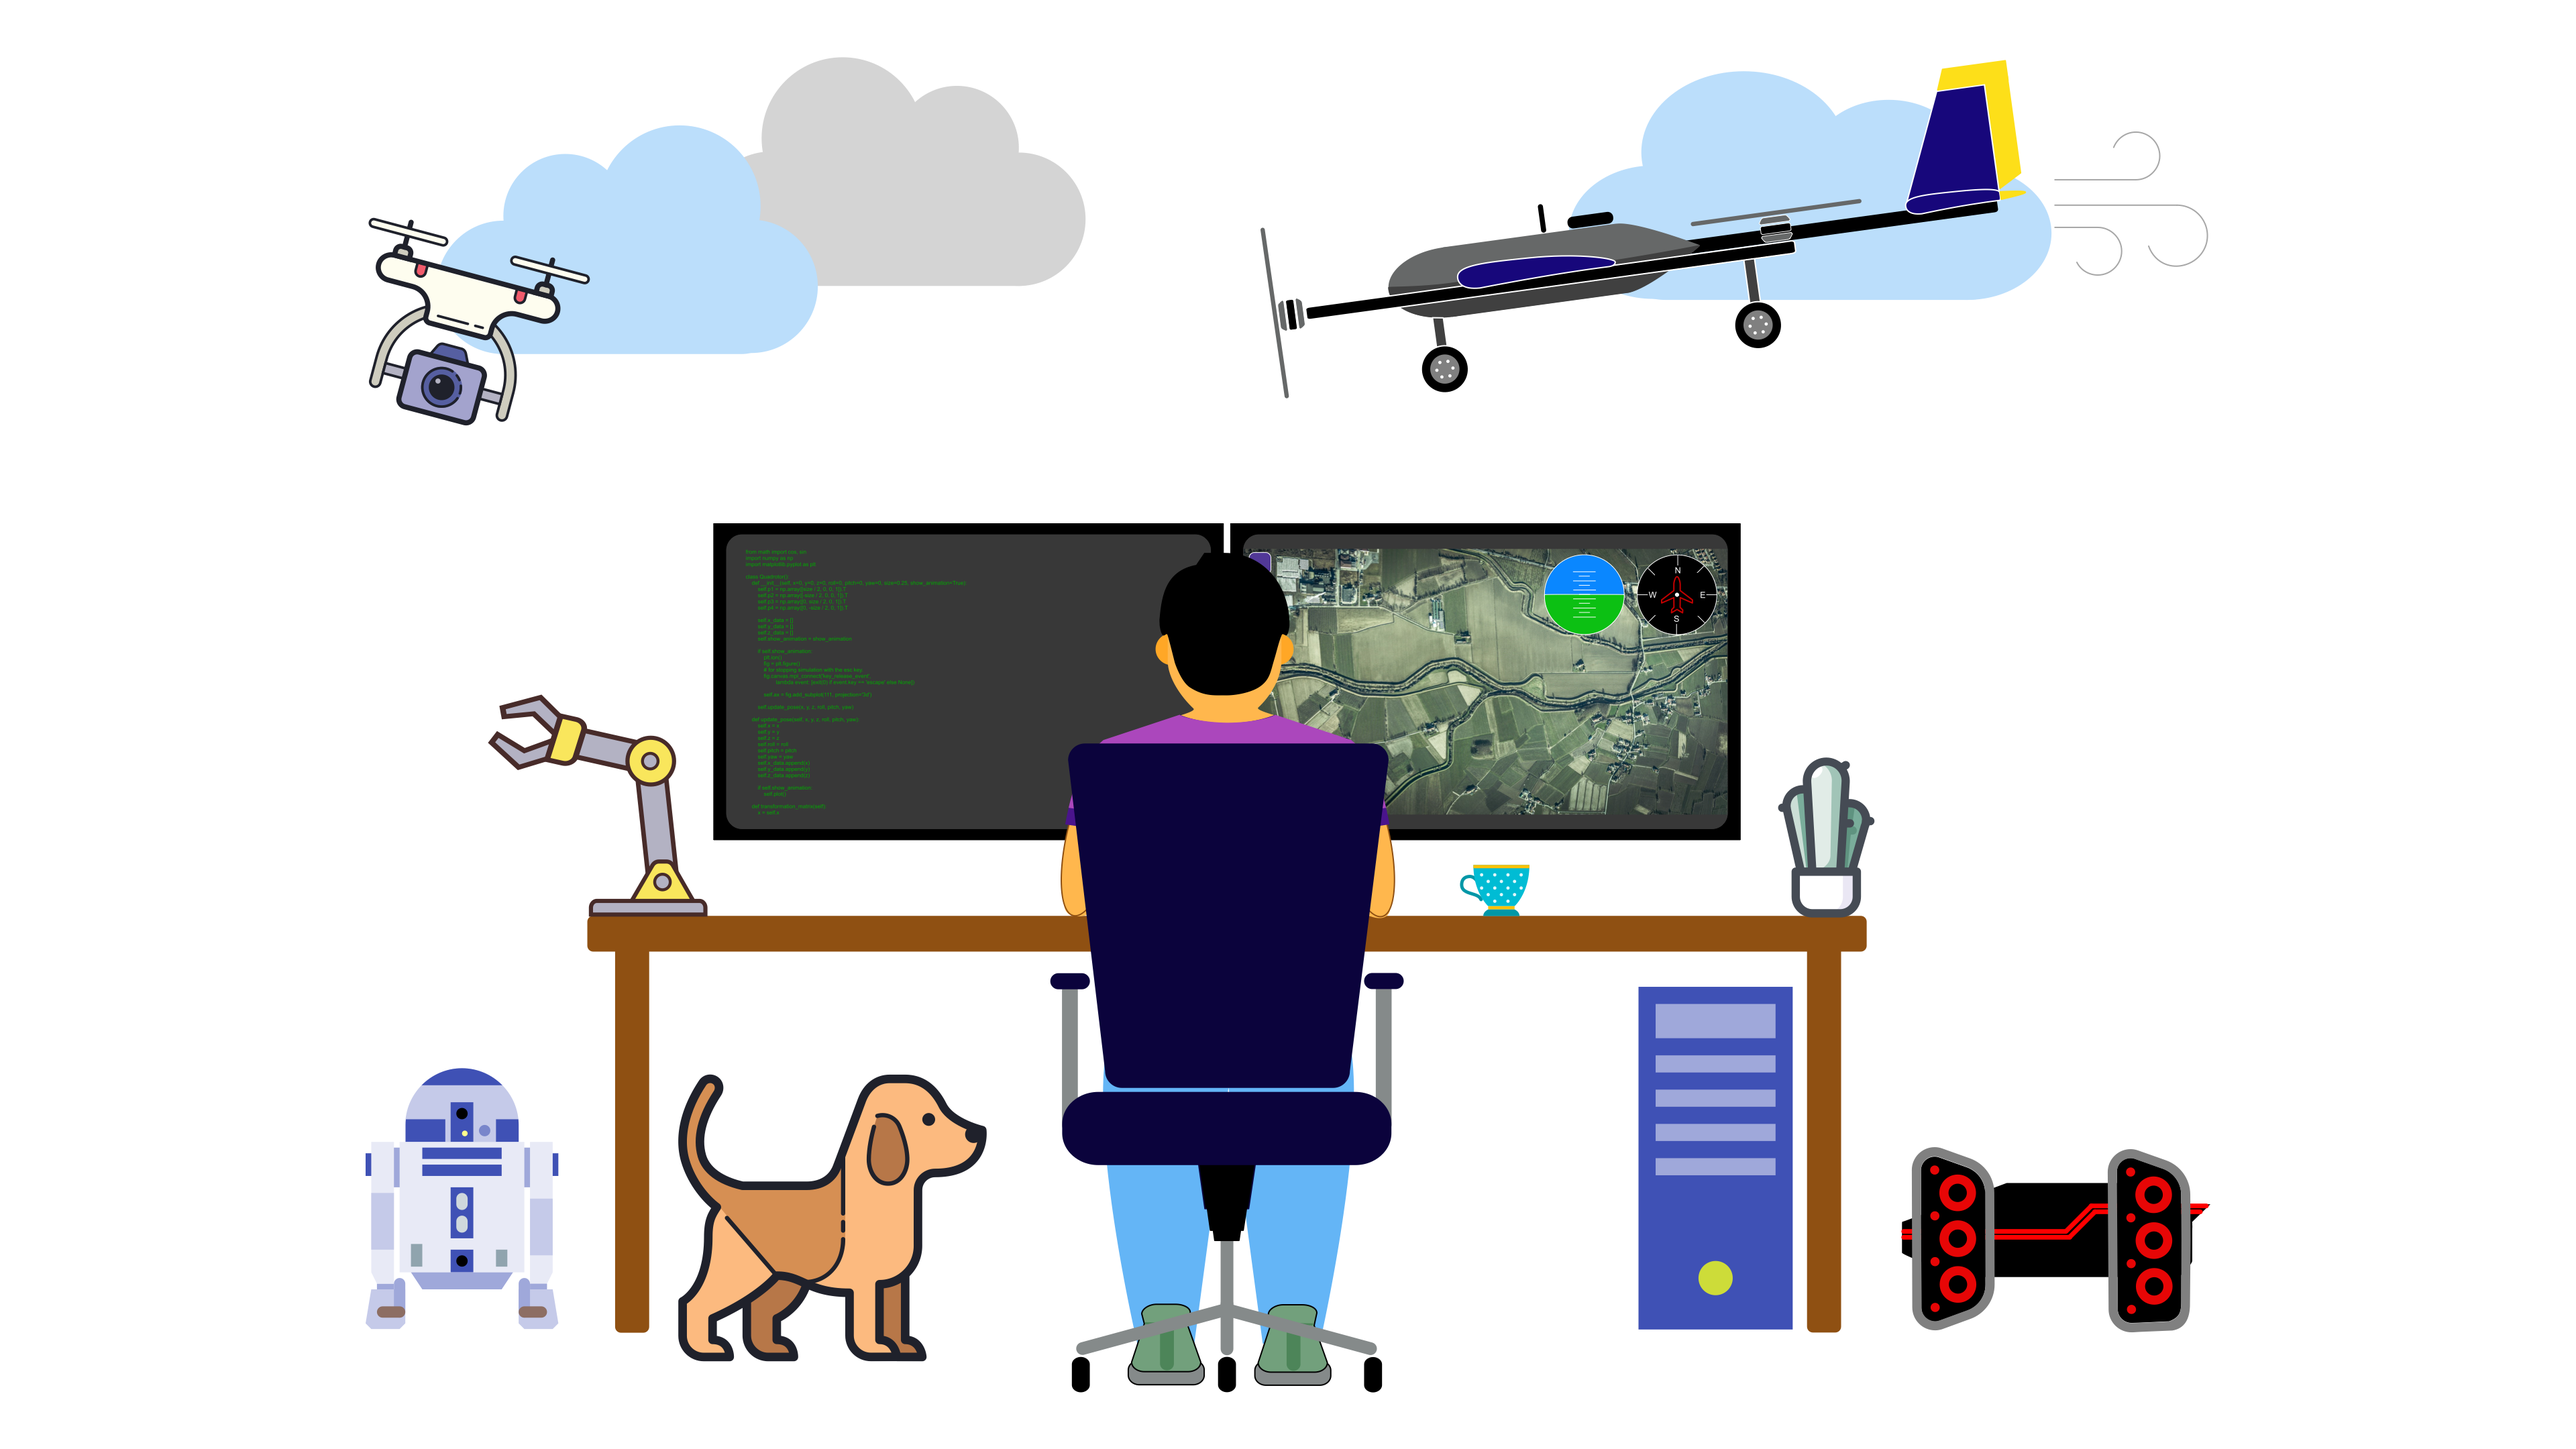
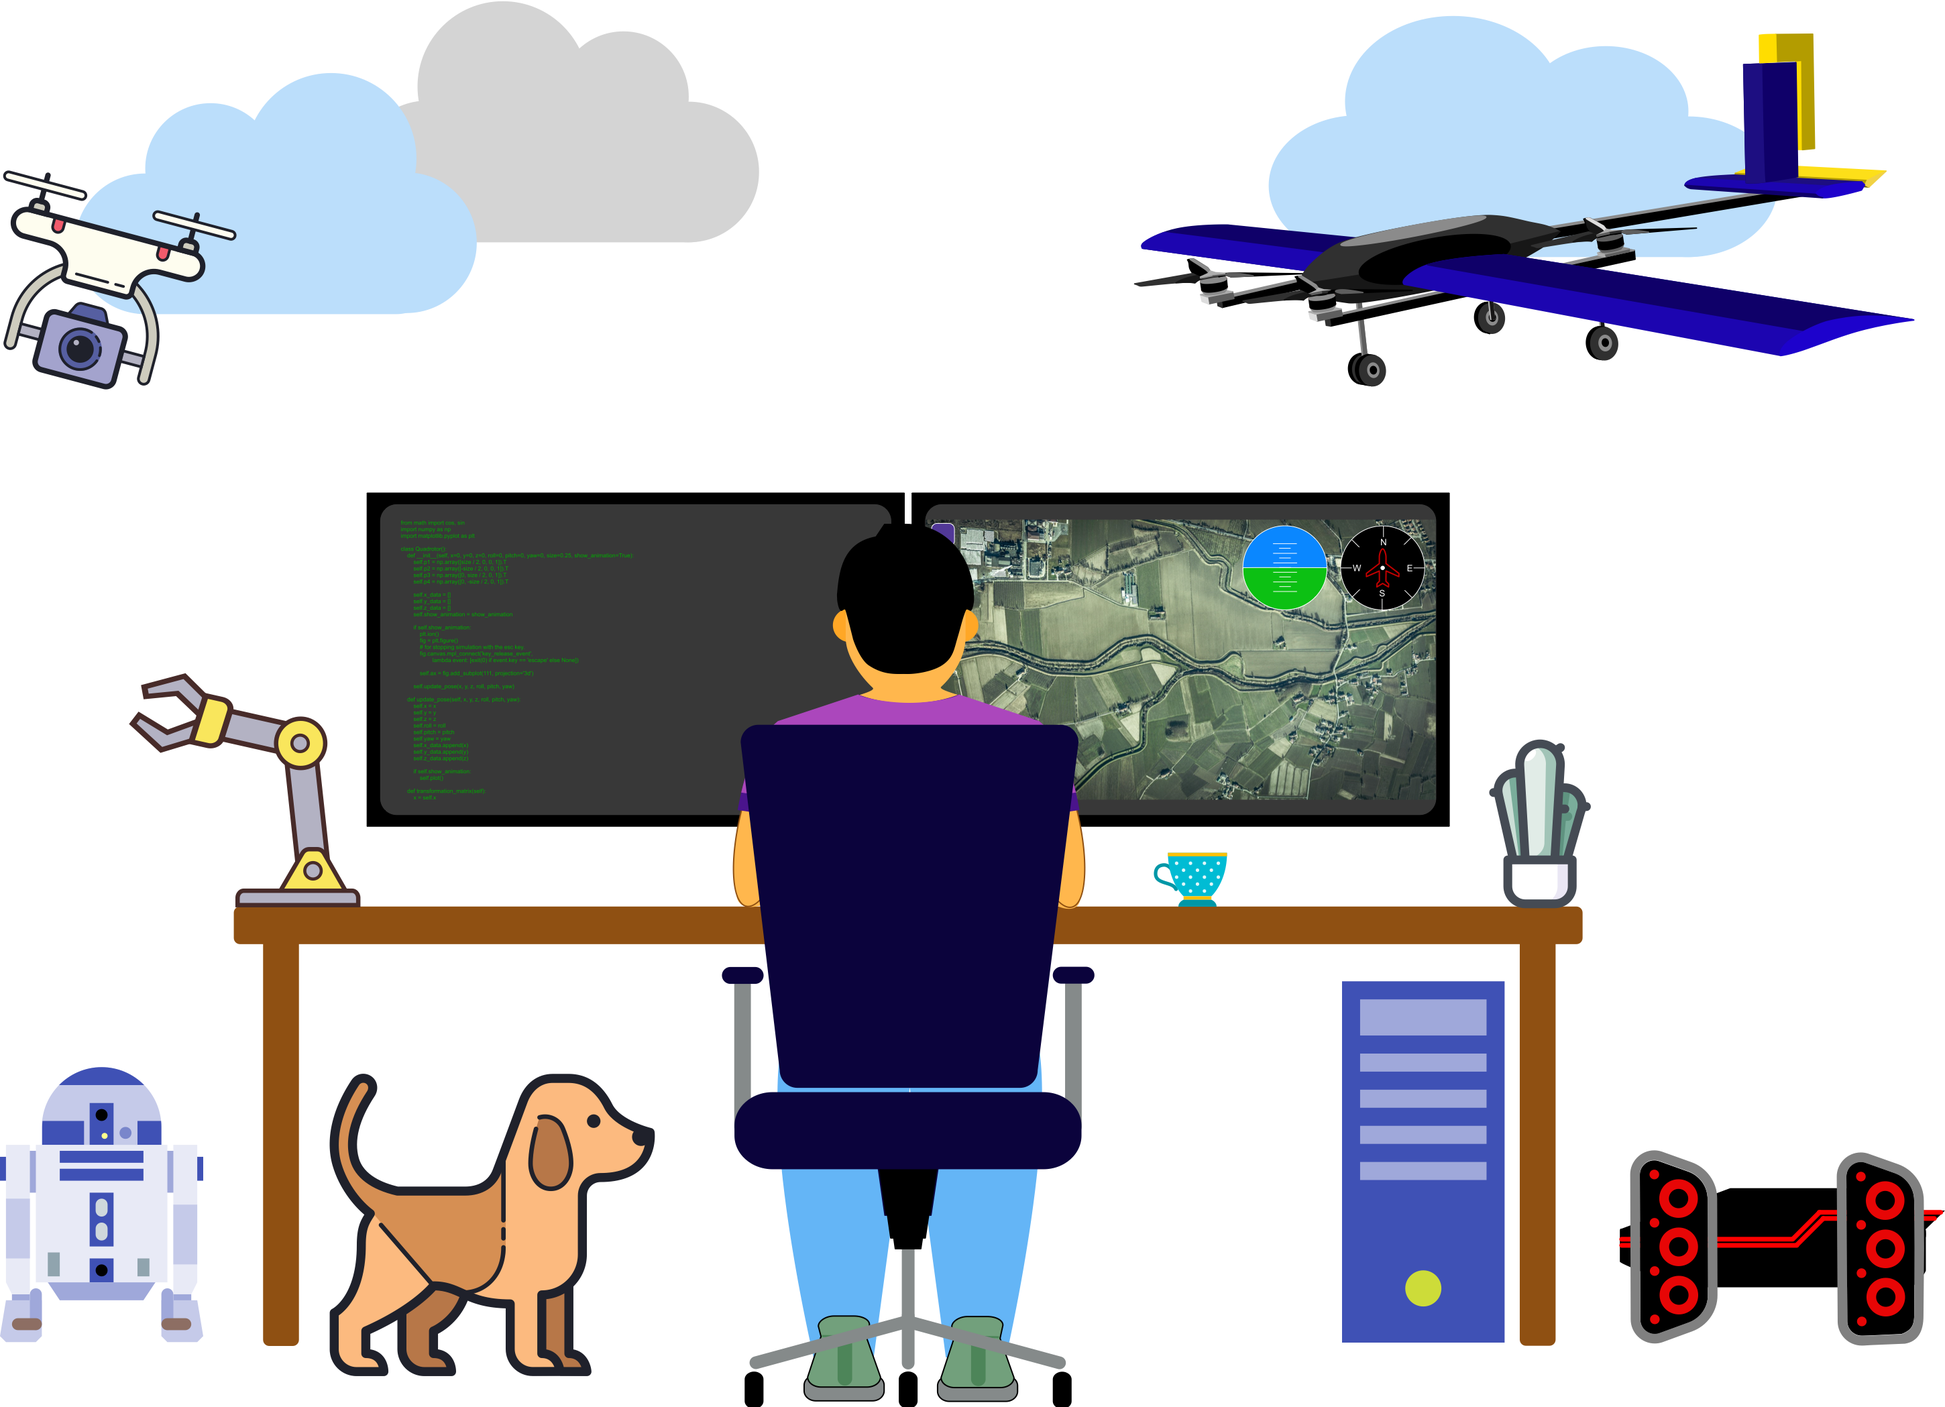
Changed hero image and added firefly

diff --git a/index.html b/index.html
@@ -11,7 +11,7 @@
       </script>
     <meta name="description" content="Portfolio website for Vinamr Arya. Vinamr is pursuing Aerospace Engineering and Computer Science
      at the University of Michigan. He is also the founder and CEO of Burnoulli Tech, that promotes STEM education for school students 
-     while also manufacturing Robots and All Terrain Vehicles. This website is a comprehensive look into his professional life"/>
+     while also manufacturing Robots and All Terrain Vehicles. This website is a comprehensive look into his professional life."/>
     <meta charset="UTF-8" />
     <meta http-equiv="X-UA-Compatible" content="IE=edge" />
     <meta name="viewport" content="width=device-width, initial-scale=1.0" />
@@ -260,12 +260,12 @@
             </div>
           </a>
 
-          <!-- MDUAV -->
+          <!-- FireFly -->
 
           <a href="./mduav.html" class="project-link">
             <div class="project-container project-card">
               <img
-                src="assets/images/Mduav.png"
+                src="assets/images/firefly.png"
                 alt="FireFly icon"
                 loading="lazy"
                 class="project-pic"
